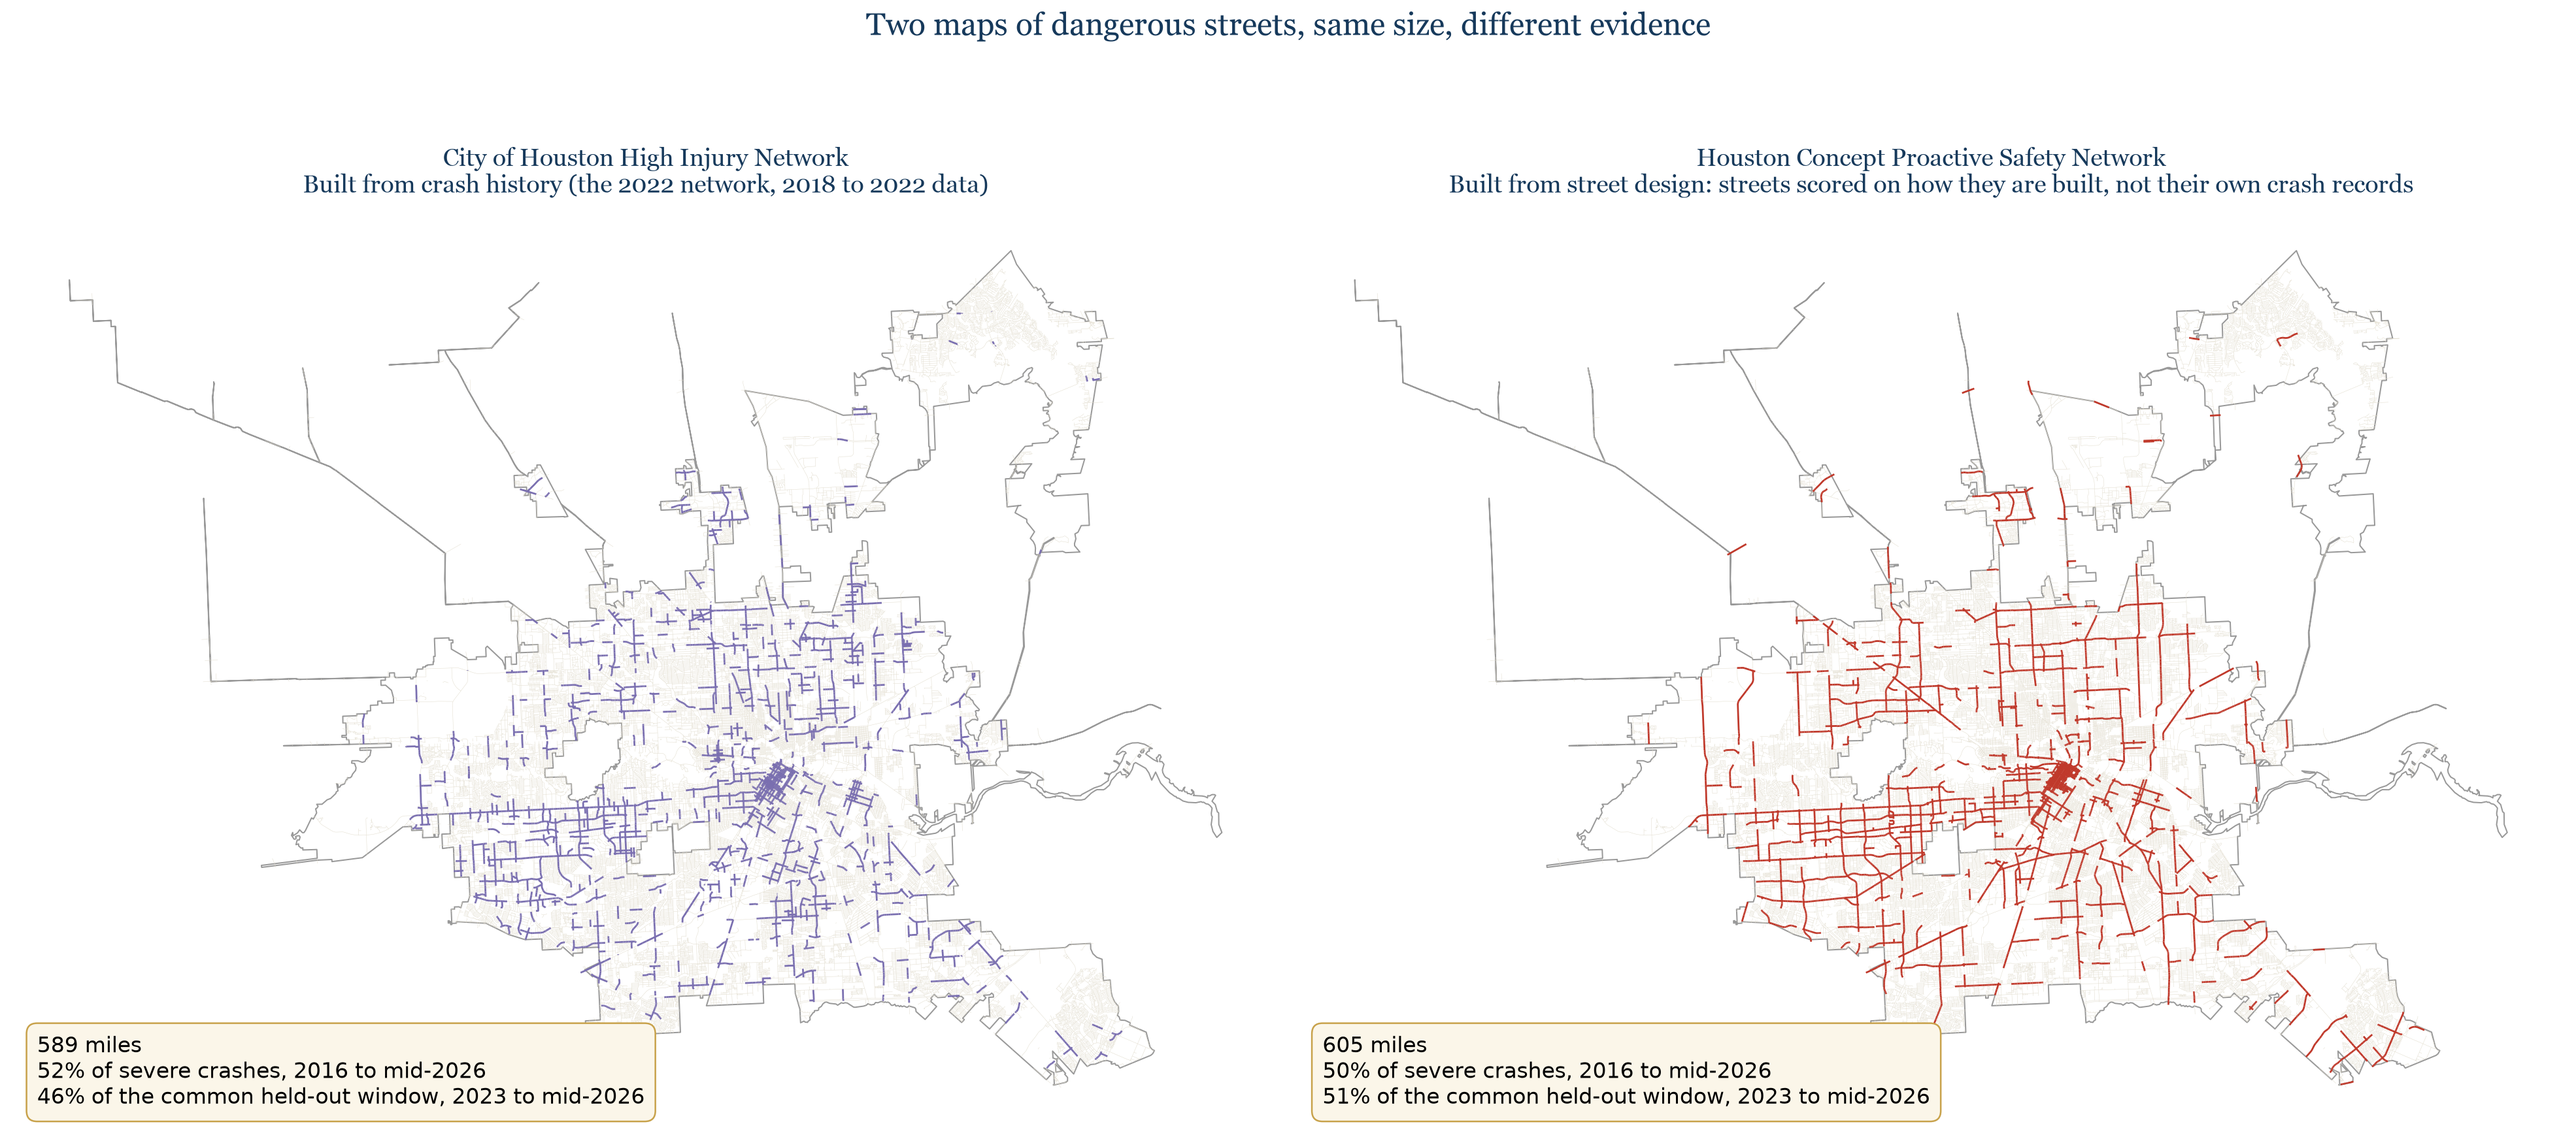
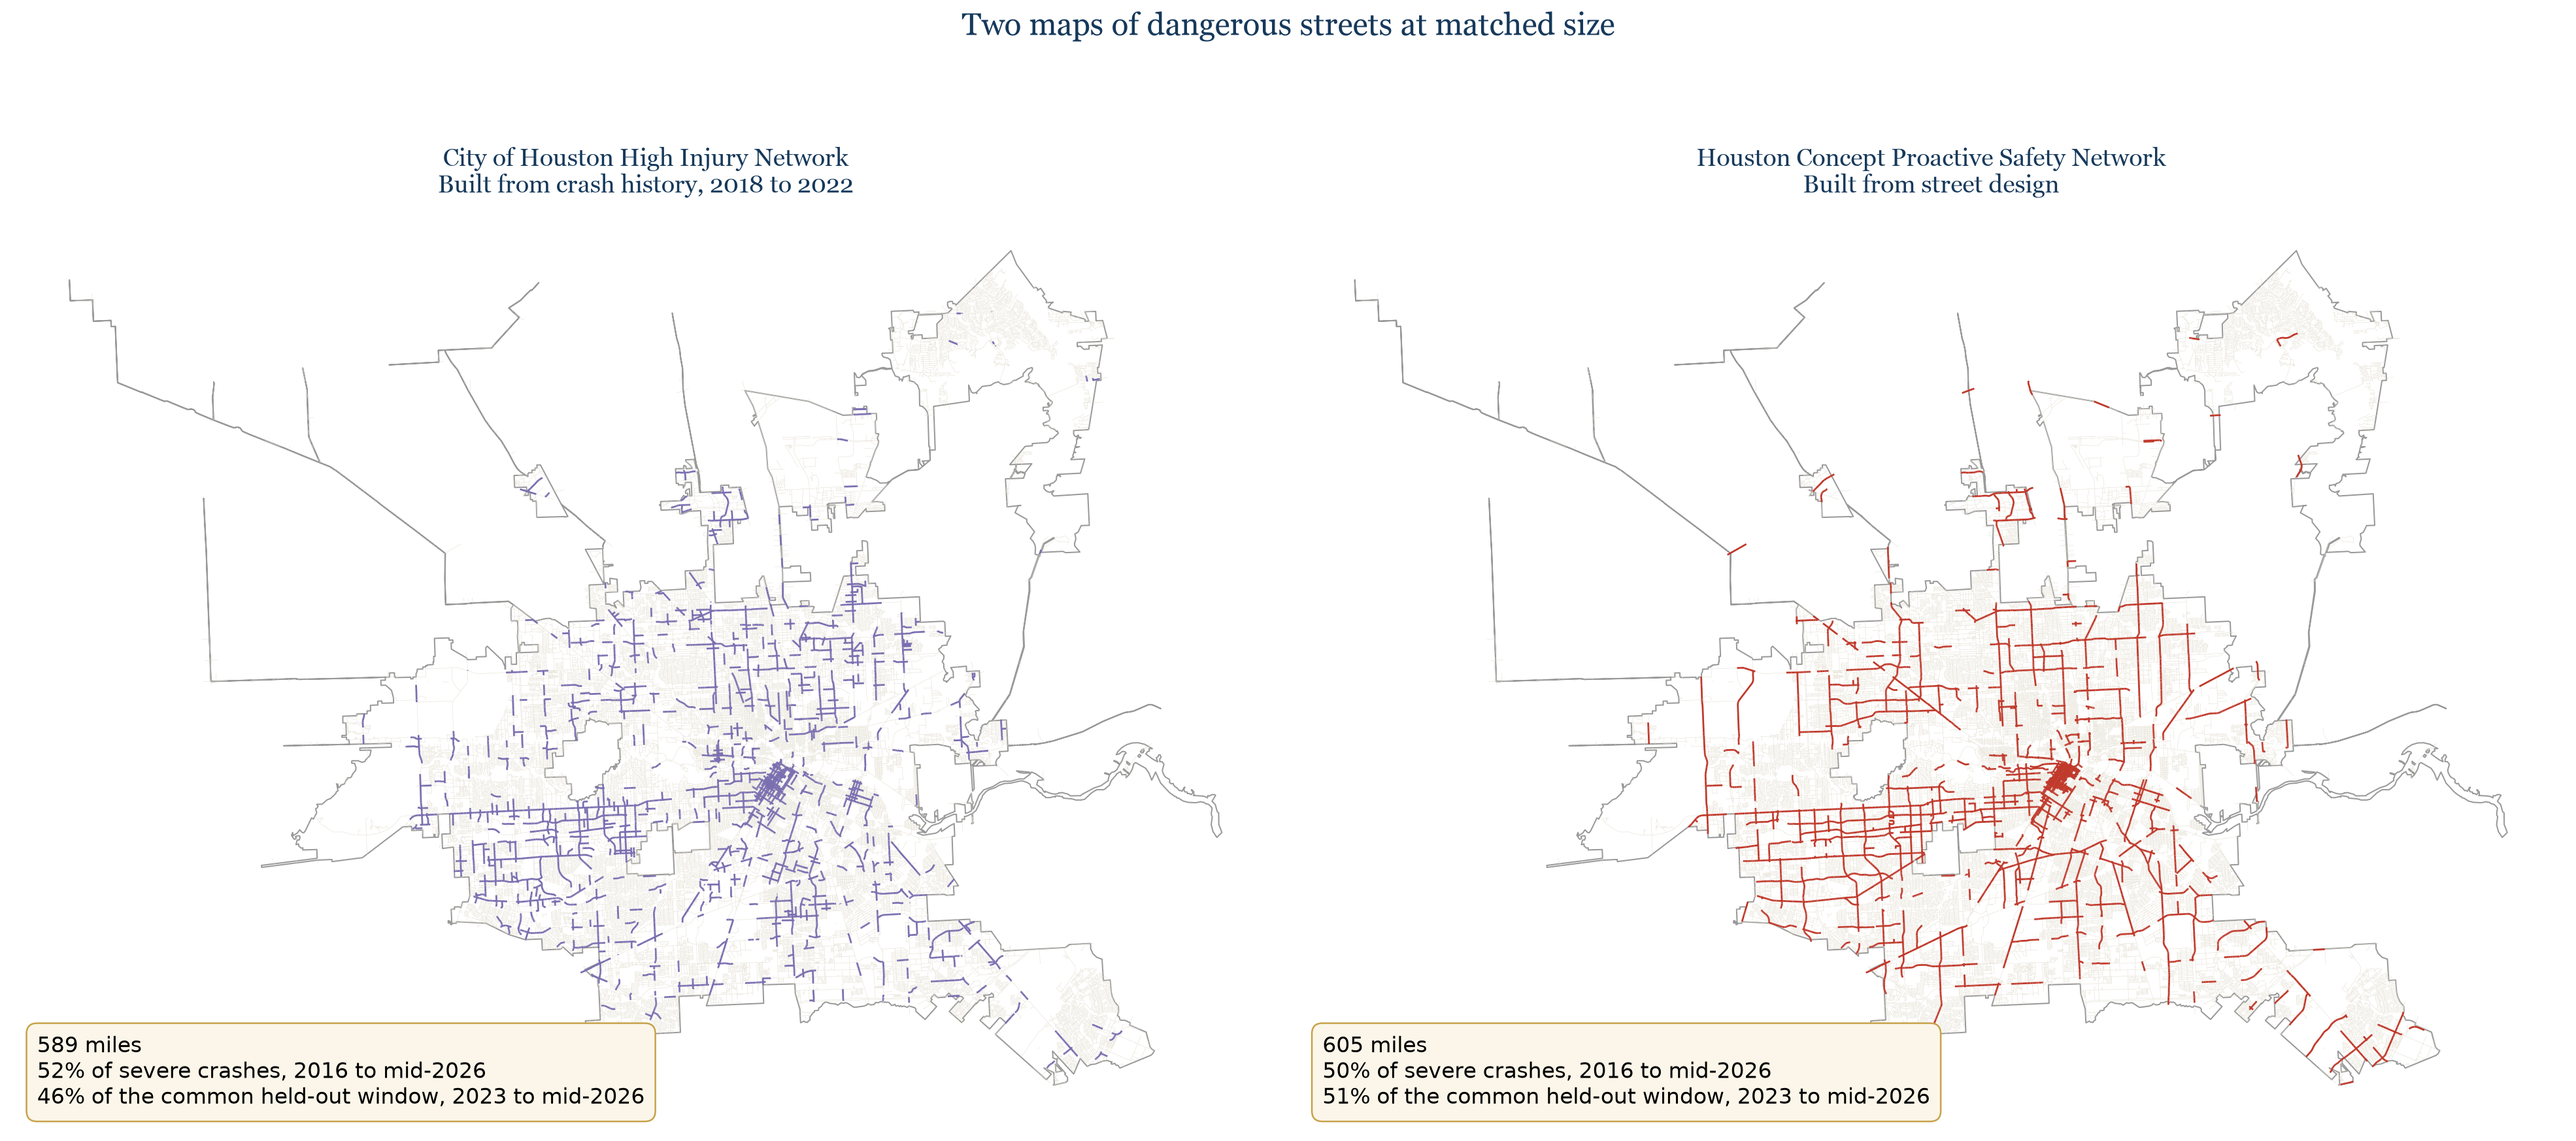
Simplify in-figure titles; details live in paper captions

Changed region(s): [[0.5618, 0.1546, 0.9363, 0.1855], [0.3433, 0.0, 0.6554, 0.0309], [0.1248, 0.1546, 0.3745, 0.1855]]

diff --git a/src/plot_hin_vs_psn.py b/src/plot_hin_vs_psn.py
@@ -39,10 +39,10 @@ def main():
 
     panels = [
         ("City of Houston High Injury Network",
-         "Built from crash history (the 2022 network, 2018 to 2022 data)",
+         "Built from crash history, 2018 to 2022",
          hin, "#7a6fb0"),
         ("Houston Concept Proactive Safety Network",
-         "Built from street design: streets scored on how they are built, not their own crash records",
+         "Built from street design",
          psn, "#C0392B"),
     ]
 
@@ -65,7 +65,7 @@ def main():
                 transform=ax.transAxes, fontsize=13, va="bottom",
                 bbox=dict(facecolor="#FBF6E9", edgecolor="#C8A24B",
                           boxstyle="round,pad=0.5"))
-    fig.suptitle("Two maps of dangerous streets, same size, different evidence",
+    fig.suptitle("Two maps of dangerous streets at matched size",
                  fontsize=19, color="#16395B", fontfamily="Georgia", y=0.99)
     plt.tight_layout()
     out = cfg.REPORTS / "hin_vs_psn.png"

diff --git a/src/plot_temporal_capture.py b/src/plot_temporal_capture.py
@@ -60,9 +60,8 @@ def capture_fig():
     ax.set_xlim(0, 78)
     ax.set_xlabel("Share of 2023 to mid-2026 severe crashes captured by each "
                   "map's top 589 miles", fontsize=10)
-    ax.set_title("Temporally held-out screening performance:\n"
-                 "crashes outside every model-training and HIN-selection window",
-                 fontsize=12, color=NAVY)
+    ax.set_title("Temporally held-out screening performance",
+                 fontsize=13, color=NAVY)
     ax.spines[["top", "right"]].set_visible(False)
     fig.tight_layout()
     out = cfg.REPORTS / "fig_temporal_capture.png"

diff --git a/src/plot_psn_map.py b/src/plot_psn_map.py
@@ -76,7 +76,7 @@ def tiered(seg, boundary):
                           label="All other streets"))
     ax.set_axis_off()
     ax.set_title("Houston Concept Proactive Safety Network, tiered against "
-                 "the adopted HIN (2022 network, 2018 to 2022 data)",
+                 "the adopted HIN",
                  fontsize=19, color="#16395B", fontfamily="Georgia", pad=14)
     ax.legend(handles=handles, loc="lower left", fontsize=12.5, frameon=True,
               facecolor="#FBF6E9", edgecolor="#C8A24B")
